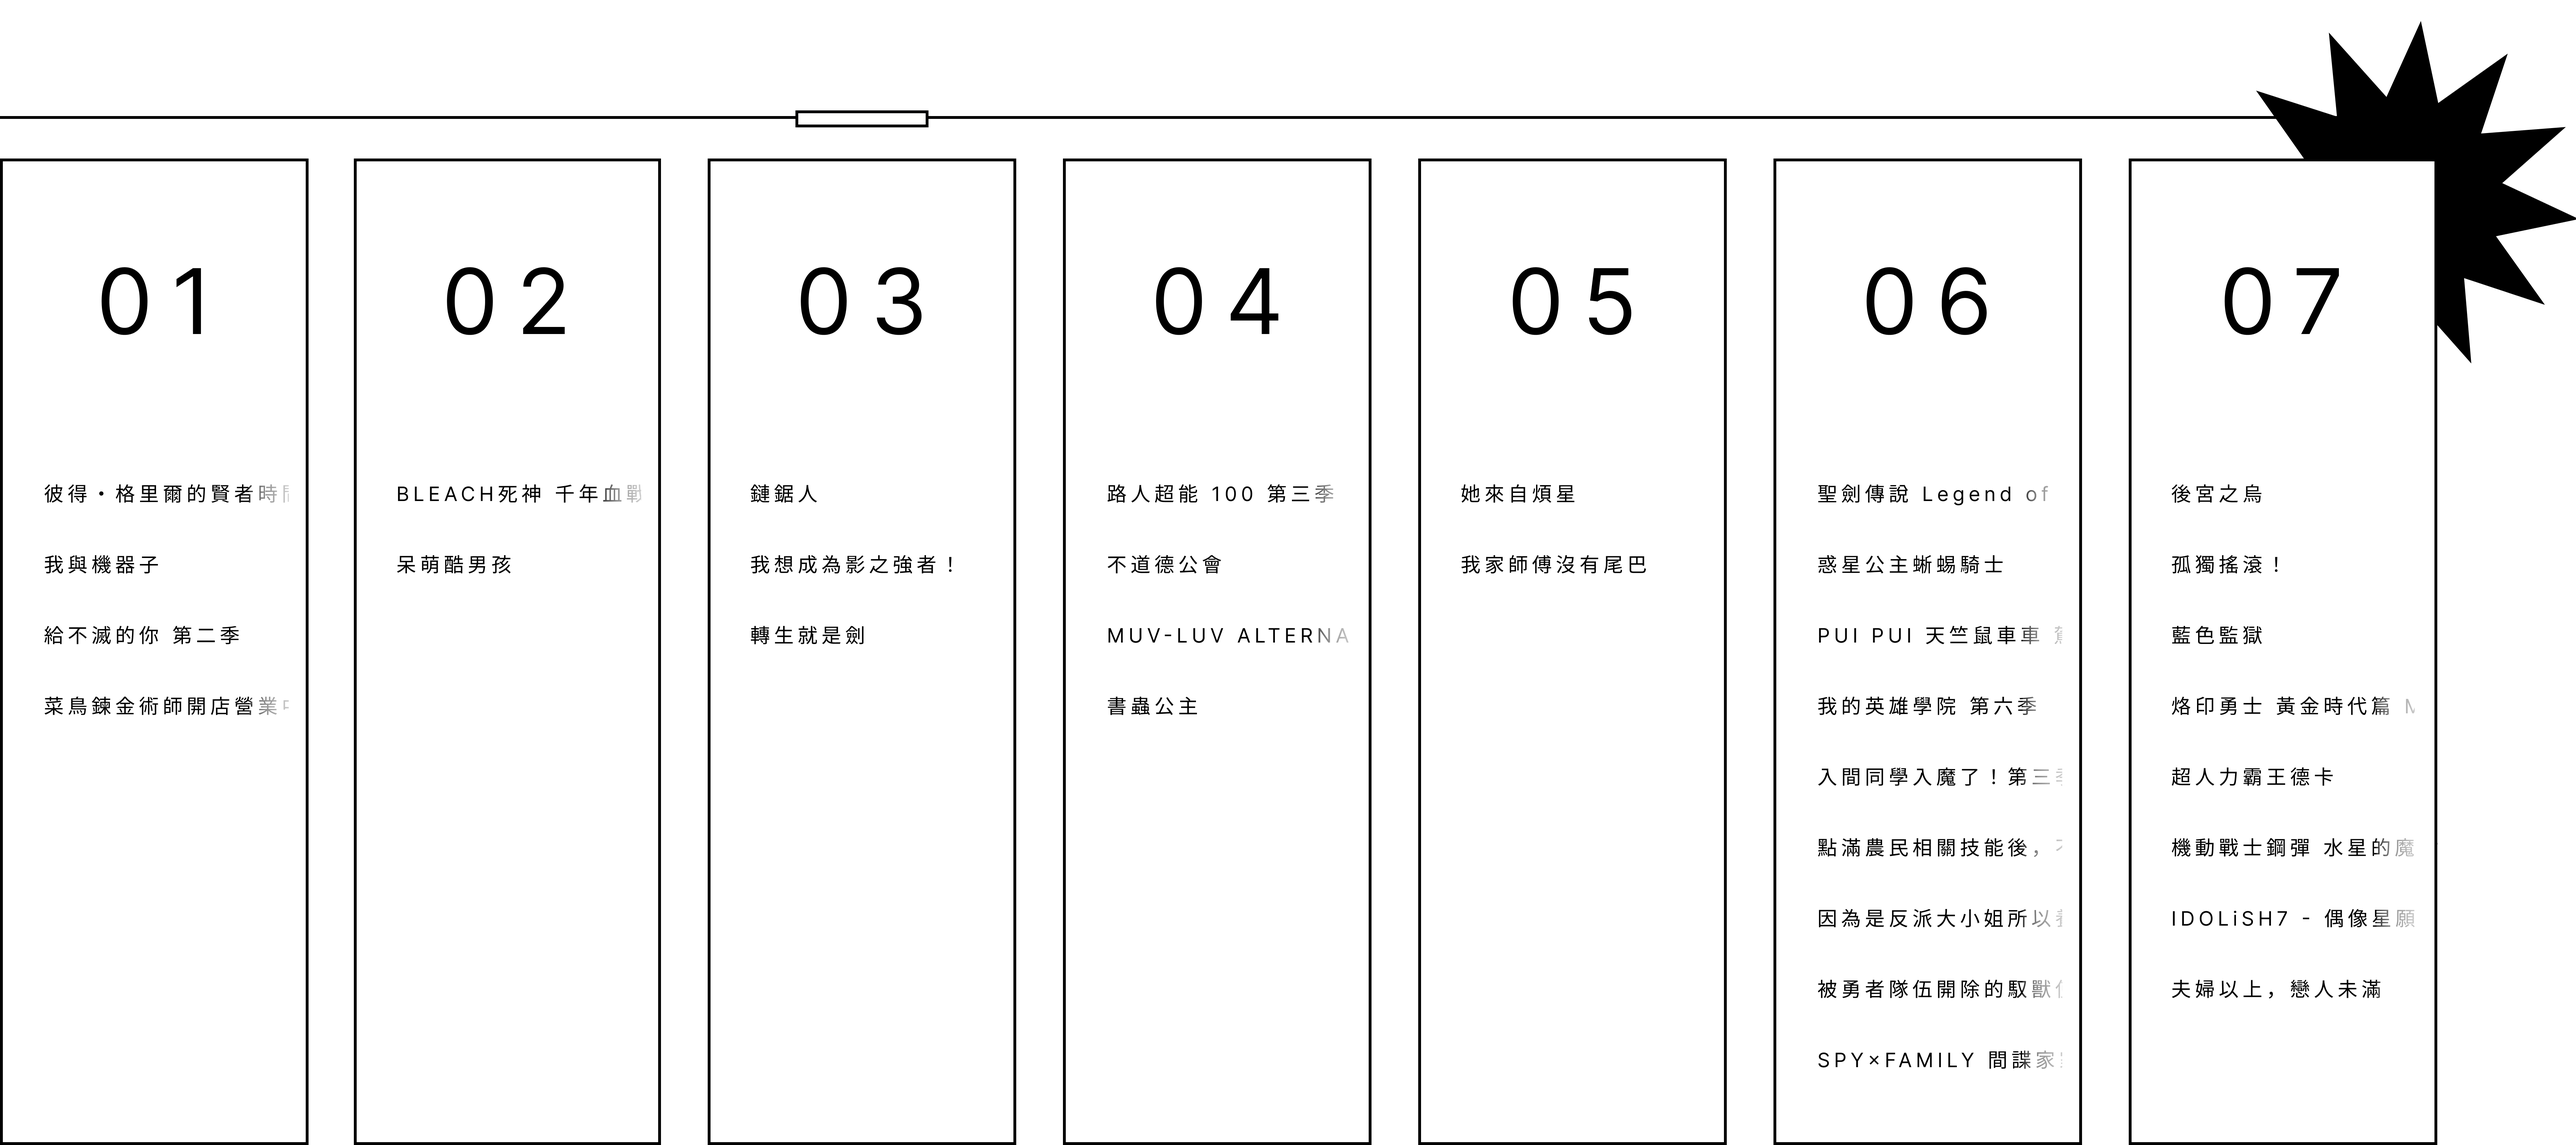
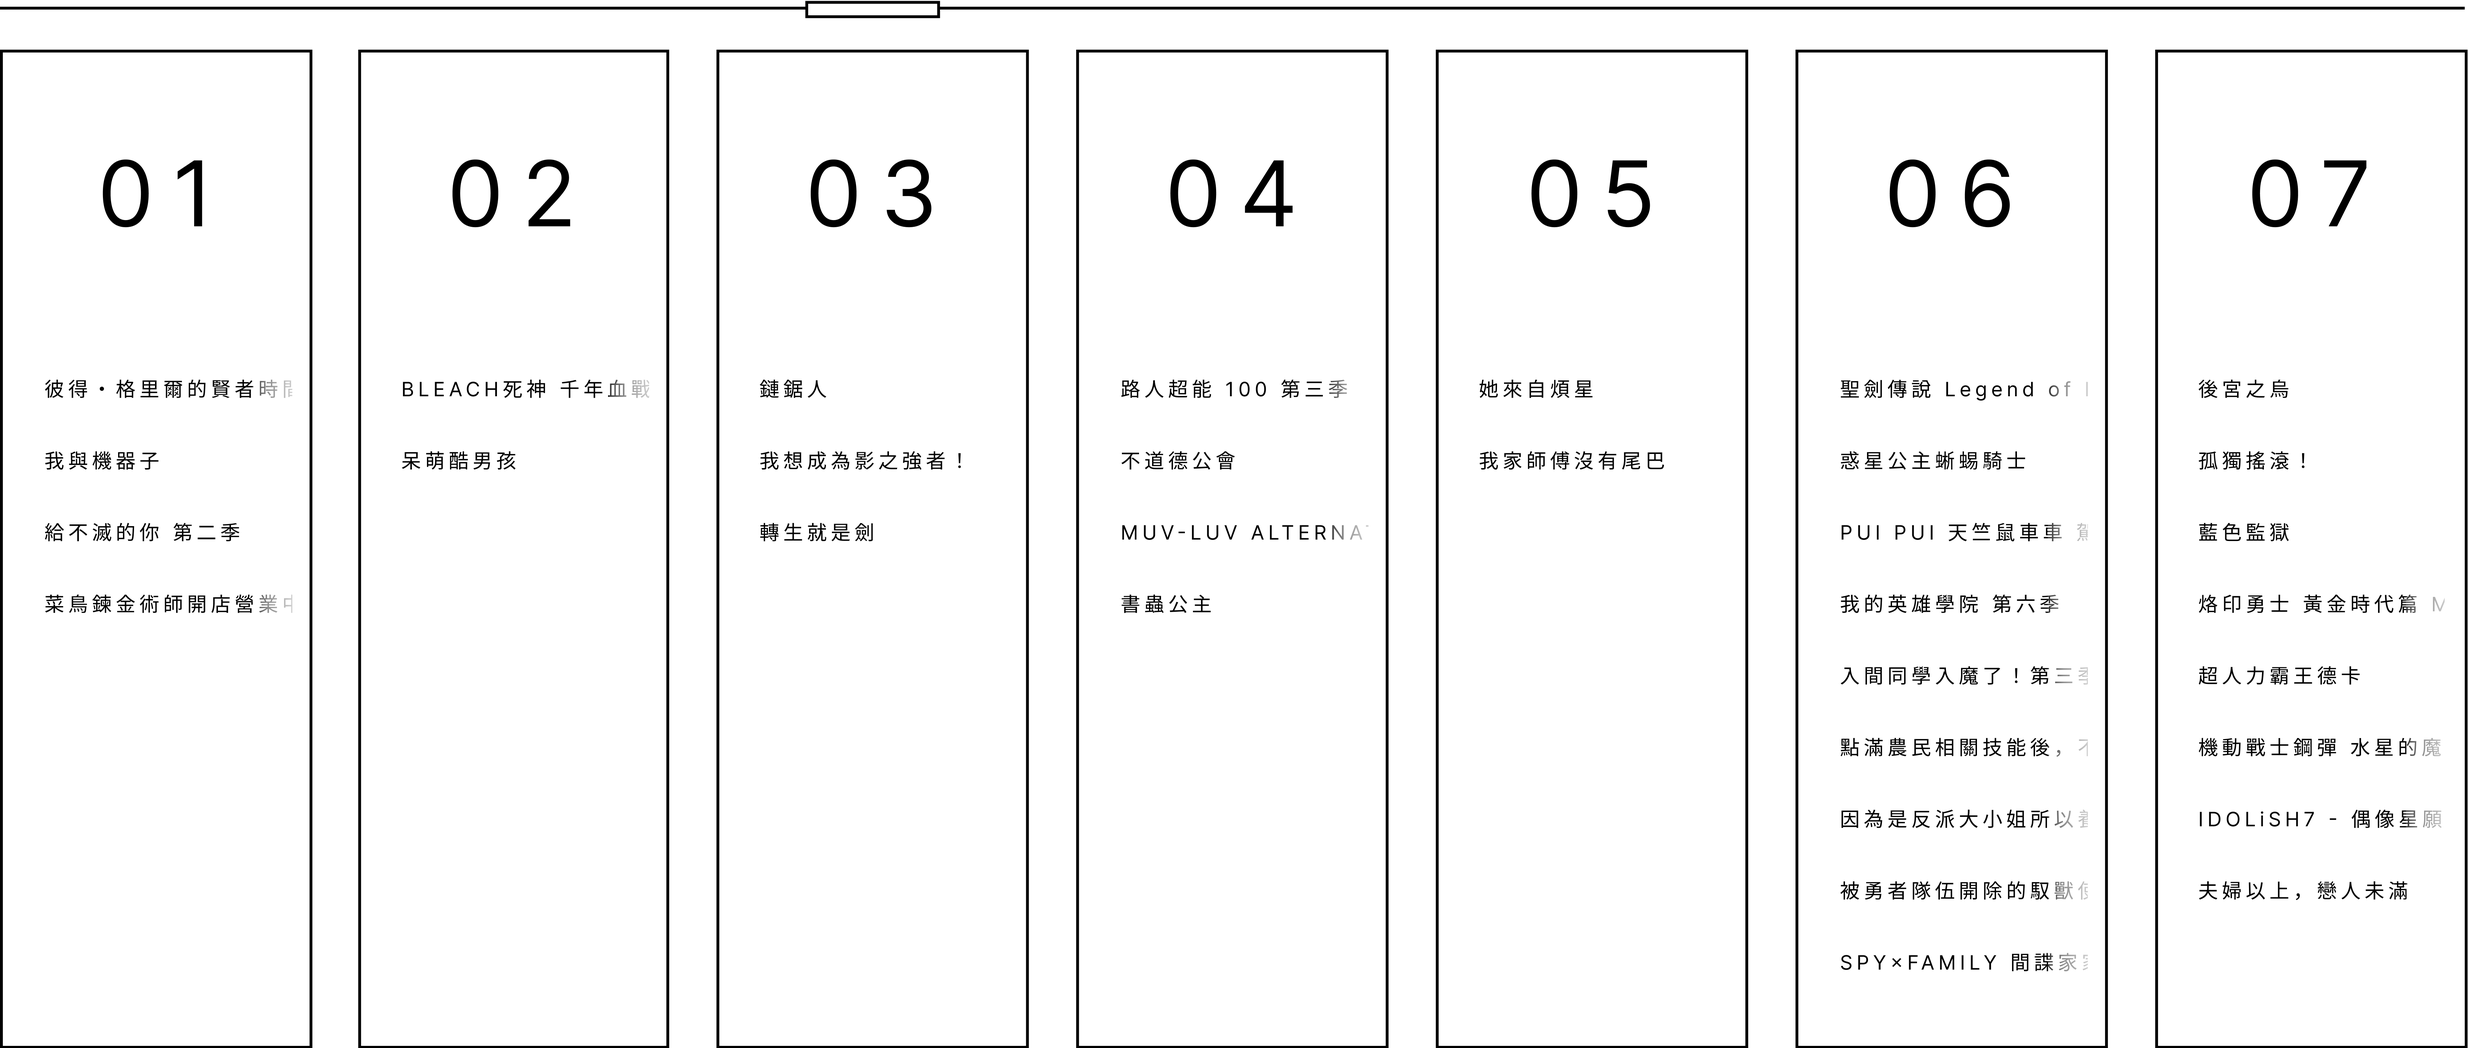
0.5

diff --git a/anime/css/time.css b/anime/css/time.css
@@ -1,23 +1,13 @@
 #time {
+  padding-right: 50px;
   padding-left: 100px;
   margin-top: 100px;
   width: 100%;
-  height: 800px;
-}
-.time_title {
-  background: #000;
-  color: rgb(255, 255, 255);
-  height: 40px;
-  width: 200px;
-  display: flex;
-  align-items: center;
-  justify-content: center;
-  flex: none;
-  margin-bottom: 20px;
-  position: absolute;
+  height: 830px;
 }
 
 .time img {
+  padding-top: 25px;
   width: 100%;
 }
 .time_mobile {
@@ -28,7 +18,6 @@
     align-items: center;
     padding-left: 25px;
     padding-right: 25px;
-
     display: block;
     margin-top: 0px;
     height: auto;

diff --git a/anime/index.html b/anime/index.html
@@ -1199,7 +1199,7 @@
     </div>
 
     <div id="time">
-      <div class="time_title">週期表</div>
+      <div class="title">週期表</div>
       <div class="time">
         <img src="./image/time.png" class="time_desktop" />
         <img src="./image/time_mobile.png" class="time_mobile" />
@@ -1212,7 +1212,10 @@
         </div>
         <div class="footer_icon">
           <img src="./image/icon_ig.png" />
-          <img src="./image/icon_fb.png" />
+          
+        </div>
+        <div class="footer_icon">
+        <img src="./image/icon_fb.png" />
         </div>
       </div>
     </div>

diff --git a/anime/js/main.js b/anime/js/main.js
@@ -2,7 +2,11 @@ var myCarousel = document.querySelector("#myCarousel");
 var carousel = new bootstrap.Carousel(myCarousel, {
   pause: "hover",
 });
-$(".logIn" && ".logIn_mobile").click(function () {
+$(".logIn").click(function () {
+  $("#logIn").show();
+  $(".backdrop").show();
+});
+$(".logIn_mobile").click(function () {
   $("#logIn").show();
   $(".backdrop").show();
 });

diff --git a/anime/css/footer.css b/anime/css/footer.css
@@ -24,6 +24,7 @@
 }
 .footer_icon {
   display: flex;
+  justify-content: flex-end;
   width: 5%;
 }
 .footer_icon img {
@@ -42,5 +43,11 @@
   }
   .footer_icon img {
     height: 20px;
+  }
+  .footer_logo {
+    width: 80%;
+  }
+  .footer_icon {
+    width: 10%;
   }
 }
